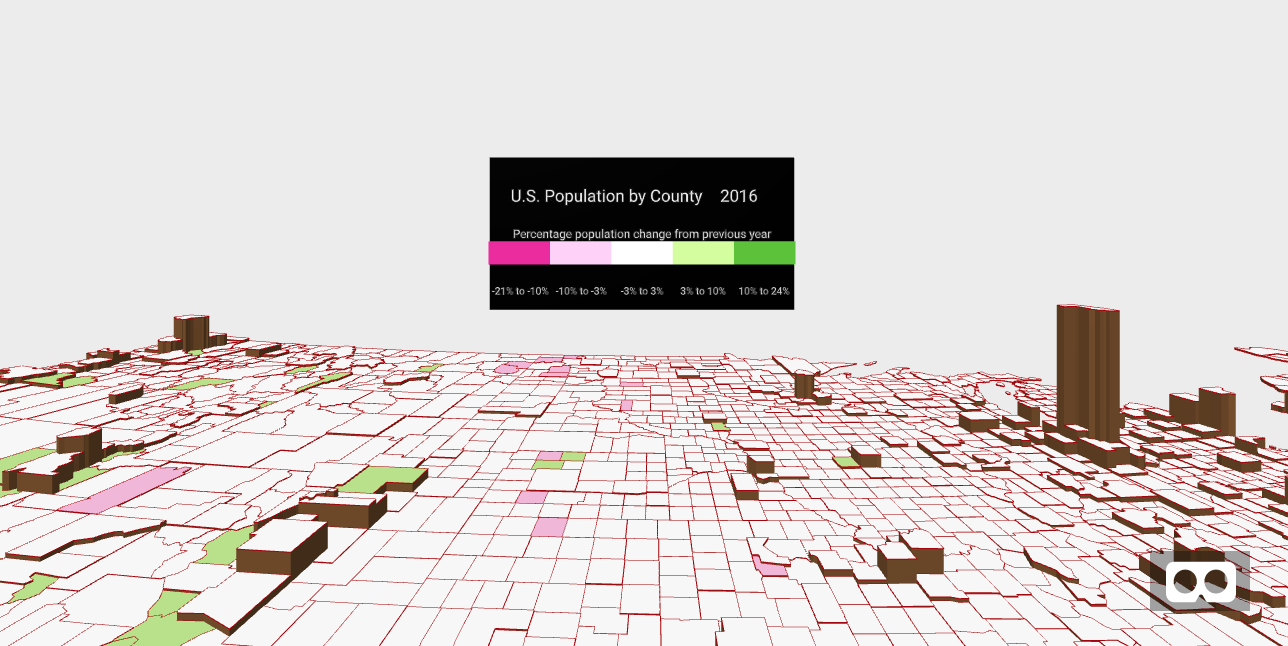
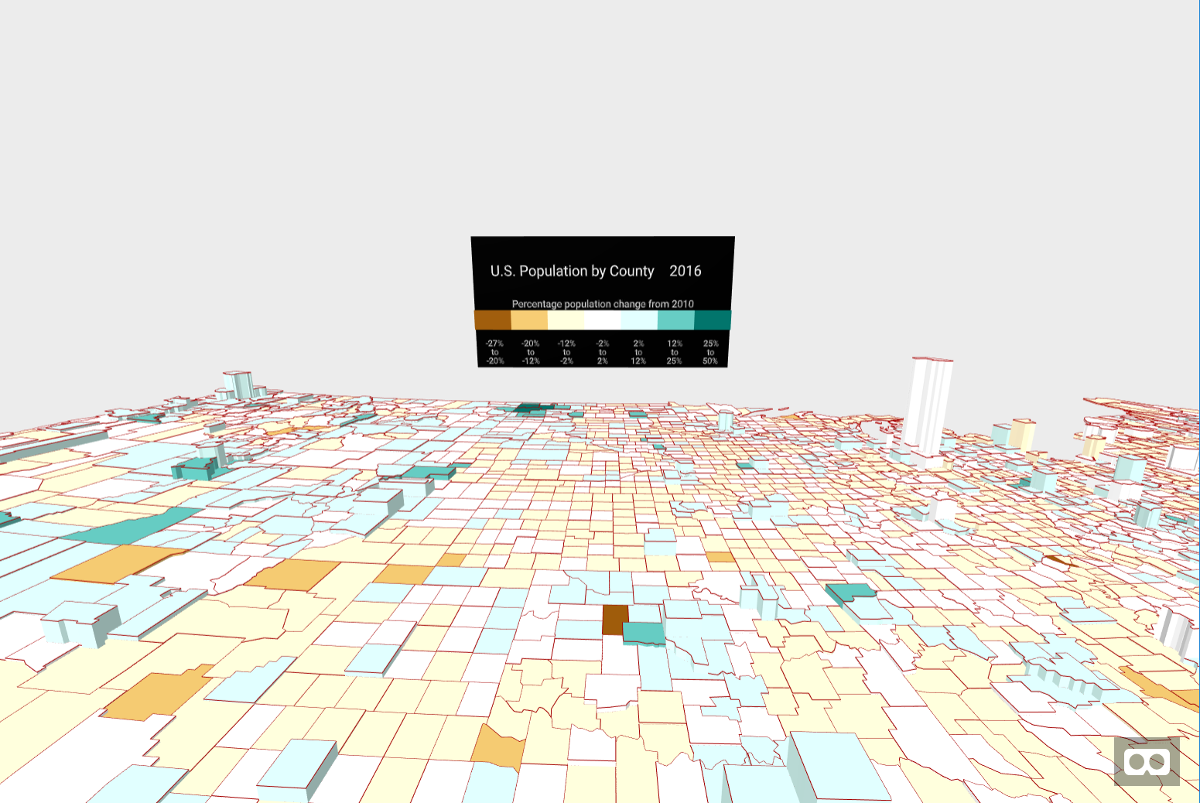
Update preview picture and README

diff --git a/README.md b/README.md
@@ -1,15 +1,16 @@
 # Visualization of U.S. Population in VR
 
-A visualization of the United States population by county using WebVR.
+A visualization of the United States population by county using WebVR.  The height of each county represents the number of people.
+The colors show the estimated percentage change in population since July 1, 2010.
 
 [![VR U.S. Population](./src/assets/preview.png)](https://sbrudz.github.io/vr-us-population/)
 
-**Note**: This is still a work in progress and I'm in the process of ironing out performance issues.
+If you have an HTC Vive or Occulus Rift, you can use the controllers to move and scale the visualization using the [super hands component](https://github.com/wmurphyrd/aframe-super-hands-component).
 
 ## About the Data
 
 The visualization uses data from [census.gov](https://census.gov) for both the map and the population estimates.
-The `data` subdirectory contains the source data files used in the visualization.  
+The `data` subdirectory contains the source data files used in the visualization.
 
 The script `data/build-data-files.sh`
 provides a reproducable way to download and process the data files into the versions in `src/assets` that are used
